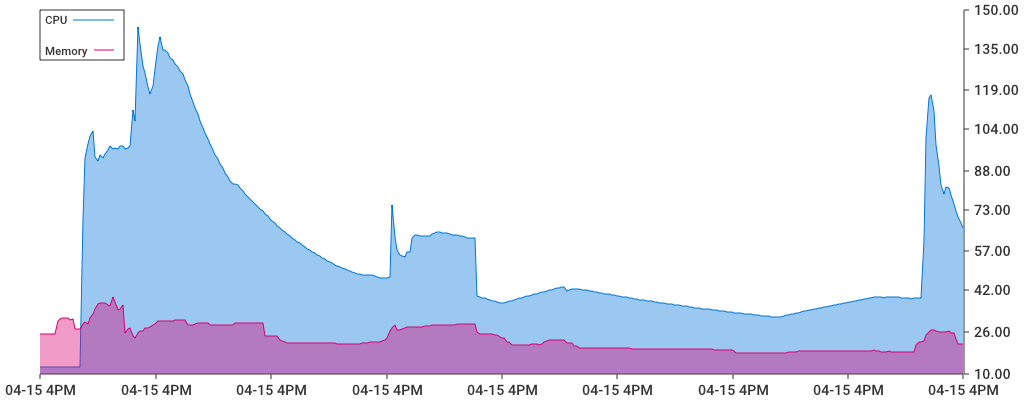
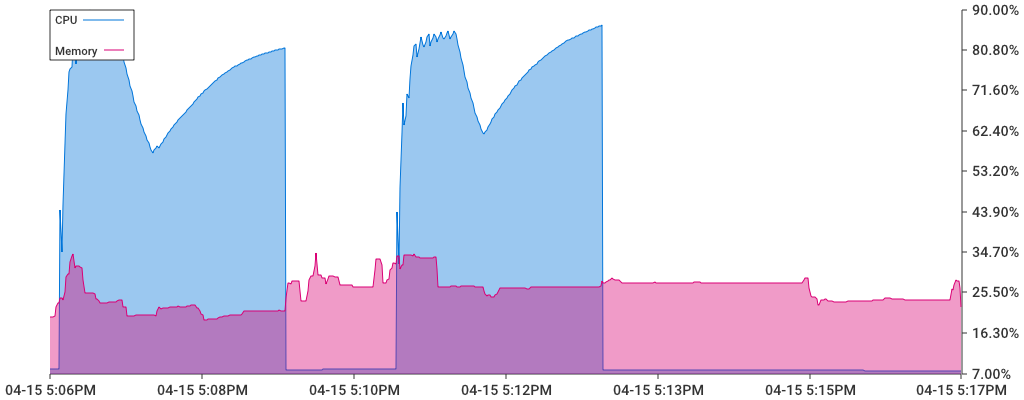
Feature: improved chart rendering

diff --git a/watcher/save.go b/watcher/save.go
@@ -31,12 +31,12 @@ func plotRecords(rec Records, name string) {
 		XAxis: chart.XAxis{
 			Name:           "Time",
 			Style:          chart.StyleShow(),
-			ValueFormatter: chart.TimeHourValueFormatter,
+			ValueFormatter: chart.TimeMinuteValueFormatter,
 		},
 		YAxis: chart.YAxis{
 			Name:           "Metric in %",
 			Style:          chart.StyleShow(),
-			ValueFormatter: chart.FloatValueFormatter,
+			ValueFormatter: chart.PercentValueFormatter,
 		},
 		Series: []chart.Series{
 			chart.TimeSeries{

diff --git a/watcher/watcher.go b/watcher/watcher.go
@@ -50,7 +50,7 @@ func getProcessStats(p *process.Process, noChildren bool) (float64, float64) {
 		}
 	}
 
-	return cpu, mem64
+	return cpu / 100, mem64 / 100
 }
 
 func Watch(pid int, interval time.Duration, duration time.Duration, noChildren bool, output string, json bool) {
